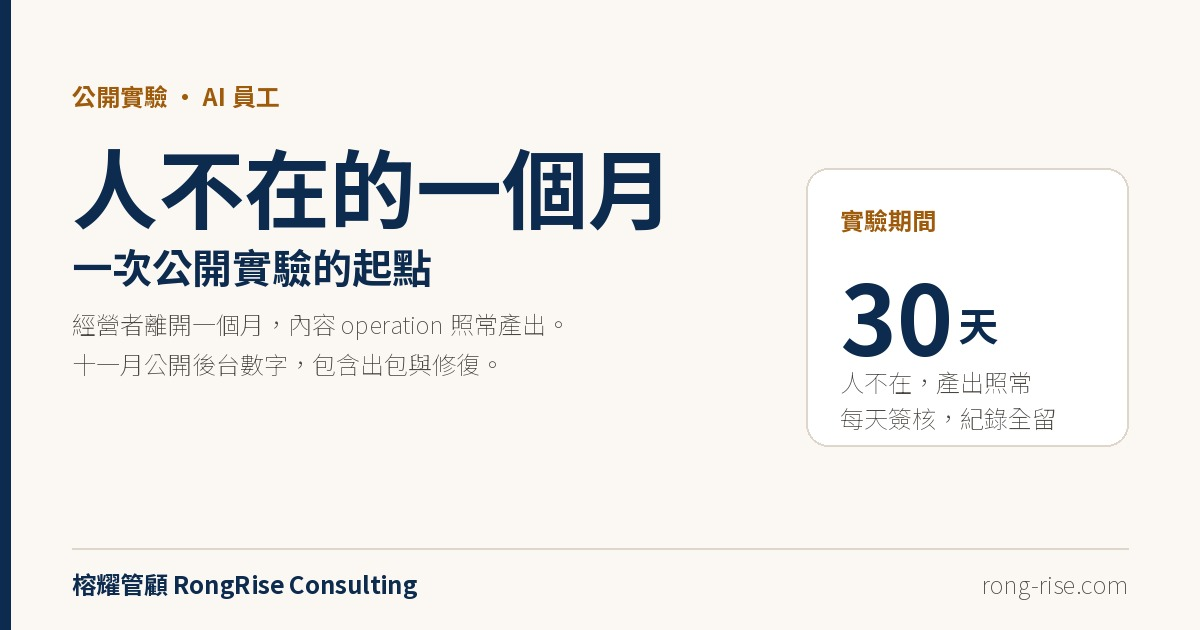
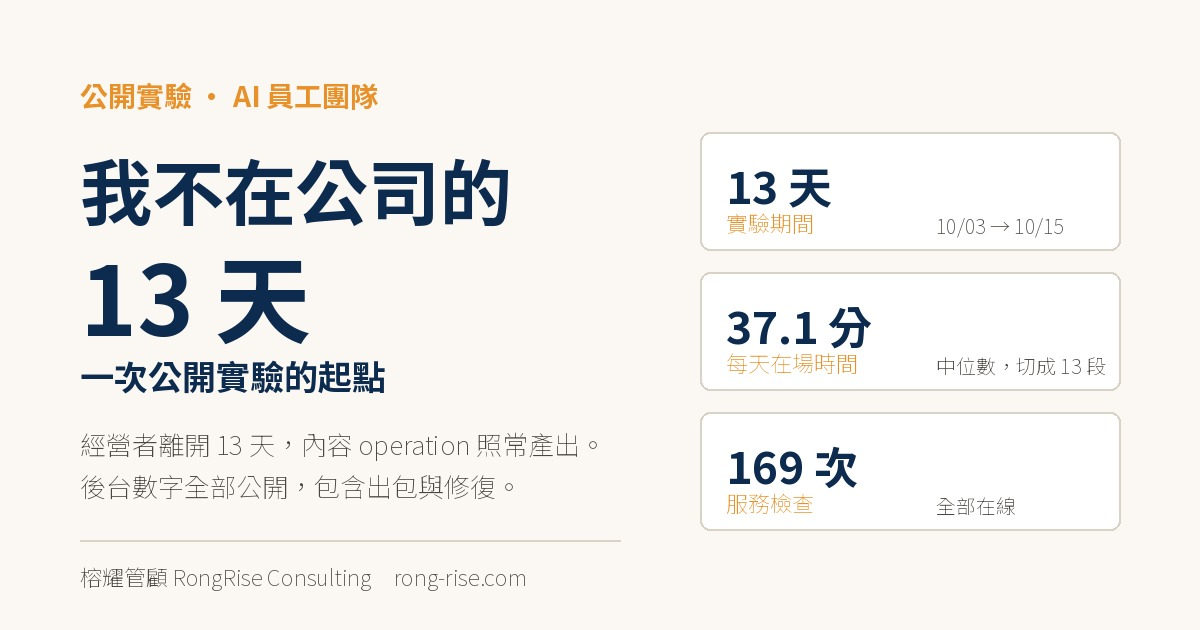
系列正名：人不在的一個月 → 我不在公司的 13 天（後台紀錄 1/2、系列總覽頁、封面與互連）

diff --git a/src/app/(zh)/knowledge/human-absent-13-days/page.tsx b/src/app/(zh)/knowledge/human-absent-13-days/page.tsx
@@ -1,0 +1,213 @@
+import Link from "next/link";
+import type { Metadata } from "next";
+
+const SITE_URL = "https://rong-rise.com";
+const NAVY = "#0D2B4E";
+const GOLD = "#E8912A";
+const TEAL = "#2EC4B6";
+
+export const metadata: Metadata = {
+  title: "我不在公司的 13 天：一次公開實驗的系列總覽 | 榕耀管顧",
+  description:
+    "13 天、169 次服務檢查、7 件錯。經營者離開公司，內容 operation 交給 AI 員工團隊，只保留每天約 37 分鐘的簽核。三篇紀錄與一支影片，數字全部公開，包含出包與修復。",
+  alternates: {
+    canonical: `${SITE_URL}/knowledge/human-absent-13-days`,
+  },
+  openGraph: {
+    title: "我不在公司的 13 天：一次公開實驗的系列總覽 | 榕耀管顧",
+    description:
+      "13 天、169 次服務檢查、7 件錯。數字全部公開，包含出包與修復。",
+    images: [
+      {
+        url: `${SITE_URL}/images/article-ai-operation-experiment.jpg`,
+        width: 1200,
+        height: 630,
+        alt: "我不在公司的 13 天：一次公開實驗",
+      },
+    ],
+  },
+};
+
+const POSTS = [
+  {
+    n: "開場",
+    title: "我不在公司的 13 天：一次公開實驗的起點",
+    href: "/knowledge/ai-operation-experiment",
+    date: "2026-10-08",
+    readTime: "6 分鐘",
+    desc: "實驗條件、邊界，以及要公開哪些數字。當時先講清楚：哪些交給 AI、哪些我保留簽核、出包會不會寫出來。",
+  },
+  {
+    n: "後台紀錄 1",
+    title: "一天 37 分鐘的管理窗口，出了 7 件錯",
+    href: "/knowledge/camino-operation-backstage",
+    date: "2026-10-25",
+    readTime: "8 分鐘",
+    desc: "169 次服務檢查全部在線，內容與流程卻出了 7 件錯，其中 6 件不是機器壞掉，是檢查設在錯的位置。附每日在場時間與錯誤分類。",
+  },
+  {
+    n: "後台紀錄 2",
+    title: "管理制度，也可以先做一輪 POC 嗎？",
+    href: "/knowledge/camino-operation-poc",
+    date: "2026-10-27",
+    readTime: "7 分鐘",
+    desc: "同樣 37 分鐘，被切成十幾段。比起總時間，一天被叫回來幾次更接近真正的管理問題。下一輪試行三層授權。",
+  },
+];
+
+const NUMBERS = [
+  { n: "13 天", t: "實驗期間", s: "10/03 → 10/15" },
+  { n: "37.1 分鐘", t: "每天在場時間", s: "中位數，切成 13 段" },
+  { n: "169 次", t: "服務檢查", s: "全部在線" },
+  { n: "7 件", t: "內容與流程出錯", s: "6 件是檢查位置設錯" },
+];
+
+export default function HumanAbsentThirteenDaysPage() {
+  return (
+    <>
+      <script
+        id="jsonld-series-human-absent-13-days"
+        type="application/ld+json"
+        dangerouslySetInnerHTML={{
+          __html: JSON.stringify({
+            "@context": "https://schema.org",
+            "@type": "CollectionPage",
+            "@id": `${SITE_URL}/knowledge/human-absent-13-days`,
+            name: "我不在公司的 13 天",
+            description:
+              "經營者離開公司 13 天，內容 operation 交給 AI 員工團隊，只保留每天約 37 分鐘的簽核。數字全部公開。",
+            hasPart: POSTS.map((p) => ({
+              "@type": "Article",
+              headline: p.title,
+              url: `${SITE_URL}${p.href}`,
+              datePublished: p.date,
+            })),
+          }),
+        }}
+      ></script>
+      <script
+        id="breadcrumb-human-absent-13-days"
+        type="application/ld+json"
+        dangerouslySetInnerHTML={{
+          __html: JSON.stringify({
+            "@context": "https://schema.org",
+            "@type": "BreadcrumbList",
+            itemListElement: [
+              { "@type": "ListItem", position: 1, name: "首頁", item: SITE_URL },
+              { "@type": "ListItem", position: 2, name: "知識庫", item: `${SITE_URL}/knowledge` },
+              {
+                "@type": "ListItem",
+                position: 3,
+                name: "我不在公司的 13 天",
+                item: `${SITE_URL}/knowledge/human-absent-13-days`,
+              },
+            ],
+          }),
+        }}
+      ></script>
+
+      <section className="bg-gradient-hero text-white">
+        <div className="max-w-[860px] mx-auto px-4 sm:px-6 py-16 md:py-20">
+          <span className="tag bg-white/15 text-white mb-4">公開實驗・系列總覽</span>
+          <h1 className="heading-hero mt-4 mb-4">我不在公司的 13 天</h1>
+          <p className="text-body-lg text-white/85 mb-3">
+            十月，我去走朝聖之路。公司沒有其他真人員工，內容 operation 交給一支 AI 員工團隊，我只保留每天約 37 分鐘的簽核。
+          </p>
+          <p className="text-body-lg text-white/85 mb-2">
+            這不是「AI 可以取代人」的展示，是一次有邊界、有紀錄、有出包的公開實驗。三篇寫完，數字全部留在這裡。
+          </p>
+          <p className="text-sm text-white/60">2026-10-08 起連載　共 3 篇＋1 支影片</p>
+        </div>
+      </section>
+
+      <section className="section bg-white">
+        <div className="max-w-[860px] mx-auto px-4 sm:px-6">
+          <div className="grid grid-cols-2 gap-3 sm:grid-cols-4">
+            {NUMBERS.map((x) => (
+              <div key={x.t} className="rounded-2xl border border-border-light bg-[#FBF8F3] p-4">
+                <p className="text-xl font-bold" style={{ color: NAVY }}>
+                  {x.n}
+                </p>
+                <p className="mt-1 text-xs font-bold" style={{ color: GOLD }}>
+                  {x.t}
+                </p>
+                <p className="mt-1 text-xs text-text-secondary">{x.s}</p>
+              </div>
+            ))}
+          </div>
+
+          <div className="mt-14">
+            <p className="text-sm font-bold tracking-widest mb-2" style={{ color: GOLD }}>
+              系列文章
+            </p>
+            <h2 className="text-2xl md:text-3xl font-bold text-text-primary mb-6">從條件、結果，到下一輪怎麼改</h2>
+
+            <div className="space-y-4">
+              {POSTS.map((p) => (
+                <Link
+                  key={p.href}
+                  href={p.href}
+                  className="block rounded-2xl border border-border-light bg-white p-6 transition hover:border-[#0D2B4E]/40 hover:shadow-sm"
+                >
+                  <div className="flex flex-wrap items-center gap-3 text-xs mb-2">
+                    <span className="rounded-full px-2.5 py-1 font-bold text-white" style={{ backgroundColor: NAVY }}>
+                      {p.n}
+                    </span>
+                    <span className="text-text-secondary">
+                      {p.date}　閱讀約 {p.readTime}
+                    </span>
+                  </div>
+                  <h3 className="text-lg md:text-xl font-bold text-text-primary mb-2">{p.title}</h3>
+                  <p className="text-sm leading-relaxed text-text-secondary">{p.desc}</p>
+                </Link>
+              ))}
+            </div>
+          </div>
+
+          <figure className="my-14">
+            <div className="mx-auto w-full max-w-[380px] overflow-hidden rounded-2xl border border-border-light bg-black/5">
+              <video controls playsInline preload="metadata" poster="/images/backstage-ep02-poster.jpg" className="h-auto w-full">
+                <source src="/videos/backstage-ep02-short.mp4" type="video/mp4" />
+                你的瀏覽器不支援影片播放。
+              </video>
+            </div>
+            <figcaption className="mt-3 text-center text-sm text-text-secondary">
+              52 秒看完後台紀錄 1：7 件錯、37.1 分鐘、56.3 小時的等待
+            </figcaption>
+          </figure>
+
+          <div className="my-12 rounded-2xl border border-border-light bg-[#FBF8F3] p-6 md:p-8">
+            <h2 className="text-xl font-bold mb-4" style={{ color: NAVY }}>
+              這個系列在測什麼
+            </h2>
+            <ul className="space-y-3 text-text-secondary leading-relaxed">
+              <li>
+                <strong className="text-text-primary">測的不是 AI 有多萬能</strong>，是管理者每天只有 30 分鐘、只有手機時，一家公司的內容 operation 會變成什麼樣子。
+              </li>
+              <li>
+                <strong className="text-text-primary">30 分鐘是期望，不是限制</strong>。實際中位數 37.1 分鐘，是目標的 1.24 倍，這一段寫在後台紀錄 1。
+              </li>
+              <li>
+                <strong className="text-text-primary">沒有對照組</strong>。這是一個人的公司做的一次實驗，不能宣稱因果，只能說這 13 天發生了什麼。
+              </li>
+              <li>
+                <strong className="text-text-primary">出包照寫</strong>。7 件錯全部列出，包含哪 6 件是我們自己設計錯了檢查位置。
+              </li>
+            </ul>
+          </div>
+
+          <div className="mt-10 mb-4 text-center">
+            <p className="text-text-secondary mb-4">如果你也在想「離開兩週，公司還能不能跑」，這三篇是我們的答案與代價。</p>
+            <Link
+              href="/contact"
+              className="inline-block rounded-full px-7 py-3 font-bold text-white"
+              style={{ backgroundColor: GOLD }}
+            >
+              聊聊你的情況
+            </Link>
+          </div>
+        </div>
+      </section>
+    </>
+  );
+}

diff --git a/src/app/(zh)/knowledge/camino-operation-backstage/page.tsx b/src/app/(zh)/knowledge/camino-operation-backstage/page.tsx
@@ -2,14 +2,14 @@ import Link from "next/link";
 import type { Metadata } from "next";
 
 export const metadata: Metadata = {
-  title: "後台紀錄 ②：一天 37 分鐘的管理窗口，出了 7 件錯 | 榕耀管顧",
+  title: "後台紀錄 1：一天 37 分鐘的管理窗口，出了 7 件錯 | 榕耀管顧",
   description:
-    "公開實驗後台紀錄第二篇：13 天、169 次服務檢查全部在線，內容與流程卻出了 7 件錯，其中 6 件是檢查設在錯的位置。附每日在場時間、簽核等待與錯誤分類圖表。",
+    "我不在公司的 13 天後台紀錄第一篇：13 天、169 次服務檢查全部在線，內容與流程卻出了 7 件錯，其中 6 件是檢查設在錯的位置。附每日在場時間、簽核等待與錯誤分類圖表。",
   alternates: {
     canonical: "https://rong-rise.com/knowledge/camino-operation-backstage",
   },
   openGraph: {
-    title: "後台紀錄 ②：一天 37 分鐘的管理窗口，出了 7 件錯 | 榕耀管顧",
+    title: "後台紀錄 1：一天 37 分鐘的管理窗口，出了 7 件錯 | 榕耀管顧",
     description:
       "13 天、169 次服務檢查全部在線，內容與流程卻出了 7 件錯。機器撐住了，判斷沒有。",
     images: [
@@ -17,7 +17,7 @@ export const metadata: Metadata = {
         url: "https://rong-rise.com/images/article-camino-operation-backstage.jpg",
         width: 1200,
         height: 630,
-        alt: "後台紀錄 ②：一天 37 分鐘的管理窗口，出了 7 件錯",
+        alt: "後台紀錄 1：一天 37 分鐘的管理窗口，出了 7 件錯",
       },
     ],
   },
@@ -273,7 +273,7 @@ function KpiGrid() {
 
 export default function Post() {
   const SITE_URL = "https://rong-rise.com";
-  const pageTitle = "後台紀錄 ②：一天 37 分鐘的管理窗口，出了 7 件錯";
+  const pageTitle = "後台紀錄 1：一天 37 分鐘的管理窗口，出了 7 件錯";
 
   return (
     <>
@@ -320,7 +320,7 @@ export default function Post() {
       ></script>
       <section className="bg-gradient-hero text-white">
         <div className="max-w-[860px] mx-auto px-4 sm:px-6 py-16 md:py-20">
-          <span className="tag bg-white/15 text-white mb-4">公開實驗・後台紀錄 ②</span>
+          <Link href="/knowledge/human-absent-13-days" className="tag bg-white/15 text-white mb-4">← 我不在公司的 13 天・系列總覽</Link>
           <h1 className="heading-hero mt-4 mb-4">一天 37 分鐘的管理窗口，出了 7 件錯</h1>
           <p className="text-body-lg text-white/85 mb-2">
             機器撐住了，判斷沒有。13 天、169 次服務檢查全部在線，內容與流程卻出了 7 件錯。
@@ -332,7 +332,7 @@ export default function Post() {
       <section className="section bg-white">
         <div className="max-w-[860px] mx-auto px-4 sm:px-6">
           <p className="text-text-secondary leading-[1.9] text-lg mb-6">
-            10 月 8 日我們發過〈人不在的一個月〉，條件是：我不在辦公室，沒有其他真人員工，內容交給 AI 團隊，我只保留簽核。這篇先講結果。
+            10 月 8 日我們發過〈我不在公司的 13 天〉，條件是：我不在辦公室，沒有其他真人員工，內容交給 AI 團隊，我只保留簽核。這篇先講結果。
           </p>
           <p className="text-text-secondary leading-[1.9] mb-6">
             這個實驗測的不是 AI 有多萬能，是管理者每天只有 30 分鐘、只有手機，其餘交給 AI 員工，後台會怎樣。30 分鐘，夠不夠管住一家公司。
@@ -465,7 +465,7 @@ export default function Post() {
           <div className="my-14 rounded-2xl bg-[#FBF8F3] p-6 md:p-8">
             <p className="text-sm font-bold tracking-widest text-tertiary mb-2">公開實驗</p>
             <p className="text-text-secondary leading-[1.9] mb-4">
-              這是「人不在的一個月」公開實驗的第二篇。第一篇寫條件，這一篇寫結果，下週寫我們要怎麼改。
+              這是〈我不在公司的 13 天〉的後台紀錄第 1 篇，系列第 2 篇。開場寫條件，這一篇寫結果，下一篇寫我們要怎麼改。
             </p>
             <Link href="/knowledge" className="btn-secondary inline-block">
               回到知識庫

diff --git a/src/app/(zh)/knowledge/camino-operation-poc/page.tsx b/src/app/(zh)/knowledge/camino-operation-poc/page.tsx
@@ -2,14 +2,14 @@ import Link from "next/link";
 import type { Metadata } from "next";
 
 export const metadata: Metadata = {
-  title: "後台紀錄 ③：管理制度，也可以先做一輪 POC | 榕耀管顧",
+  title: "後台紀錄 2：管理制度，也可以先做一輪 POC | 榕耀管顧",
   description:
-    "公開實驗第三篇：13 天裡每天介入約 37 分鐘，卻被切成十幾段。比起總時間，一天被叫回來幾次，更接近真正的管理問題。下一輪試行三層授權。",
+    "後台紀錄第 2 篇：13 天裡每天介入約 37 分鐘，卻被切成十幾段。比起總時間，一天被叫回來幾次，更接近真正的管理問題。下一輪試行三層授權。",
   alternates: {
     canonical: "https://rong-rise.com/knowledge/camino-operation-poc",
   },
   openGraph: {
-    title: "後台紀錄 ③：管理制度，也可以先做一輪 POC | 榕耀管顧",
+    title: "後台紀錄 2：管理制度，也可以先做一輪 POC | 榕耀管顧",
     description:
       "工作完成了，流程還在等我。當 AI 團隊擴大，真正的瓶頸是被叫回系統的次數。",
     images: [
@@ -17,7 +17,7 @@ export const metadata: Metadata = {
         url: "https://rong-rise.com/images/article-camino-operation-poc.jpg",
         width: 1200,
         height: 630,
-        alt: "後台紀錄 ③：管理制度，也可以先做一輪 POC",
+        alt: "後台紀錄 2：管理制度，也可以先做一輪 POC",
       },
     ],
   },
@@ -433,7 +433,7 @@ function CheckList() {
 
 export default function Post() {
   const SITE_URL = "https://rong-rise.com";
-  const pageTitle = "後台紀錄 ③：管理制度，也可以先做一輪 POC 嗎？";
+  const pageTitle = "後台紀錄 2：管理制度，也可以先做一輪 POC 嗎？";
   const pageDesc =
     "13 天裡每天介入約 37 分鐘，卻被切成十幾段。比起總時間，一天被叫回來幾次，更接近真正的管理問題。";
 
@@ -498,7 +498,7 @@ export default function Post() {
       ></script>
       <section className="bg-gradient-hero text-white">
         <div className="max-w-[860px] mx-auto px-4 sm:px-6 py-16 md:py-20">
-          <span className="tag bg-white/15 text-white mb-4">公開實驗・後台紀錄 ③</span>
+          <Link href="/knowledge/human-absent-13-days" className="tag bg-white/15 text-white mb-4">← 我不在公司的 13 天・系列總覽</Link>
           <h1 className="heading-hero mt-4 mb-4">管理制度，也可以像 Vibe Coding 一樣，先做一輪 POC 嗎？</h1>
           <p className="text-body-lg text-white/85 mb-2">
             工作完成了，流程還在等我。真正的瓶頸，是一天被叫回系統幾次。
@@ -579,11 +579,11 @@ export default function Post() {
           <div className="my-14 rounded-2xl border border-border-light p-6 md:p-8">
             <p className="text-sm font-bold tracking-widest text-tertiary mb-2">公開實驗</p>
             <p className="text-text-secondary leading-[1.9] mb-4">
-              這是「人不在的一個月」公開實驗的第三篇。第一篇寫條件，第二篇寫 13 天的結果，這一篇寫下一輪要怎麼改。數字來自實驗期紀錄，沒有對照組，不能宣稱因果。
+              這是〈我不在公司的 13 天〉的後台紀錄第 2 篇。第一篇寫條件，第二篇寫 13 天的結果，這一篇寫下一輪要怎麼改。數字來自實驗期紀錄，沒有對照組，不能宣稱因果。
             </p>
             <div className="flex flex-wrap gap-3">
               <Link href="/knowledge/camino-operation-backstage" className="btn-secondary inline-block">
-                讀第二篇：後台紀錄 ②
+                讀上一篇：後台紀錄 1
               </Link>
               <Link href="/knowledge" className="btn-secondary inline-block">
                 回到知識庫

diff --git a/src/app/(zh)/knowledge/page.tsx b/src/app/(zh)/knowledge/page.tsx
@@ -34,7 +34,7 @@ const articles: Article[] = [
   {
     slug: "camino-operation-poc",
     cat: "AI 轉型",
-    title: "後台紀錄 ③：管理制度，也可以先做一輪 POC 嗎？",
+    title: "後台紀錄 2：管理制度，也可以先做一輪 POC 嗎？",
     date: "2026-10-27",
     readTime: "6 分鐘",
     excerpt: "13 天裡每天介入約 37 分鐘，卻被切成十幾段。比起總時間，一天被叫回來幾次，更接近真正的管理問題。下一輪試行三層授權。",
@@ -43,7 +43,7 @@ const articles: Article[] = [
   {
     slug: "camino-operation-backstage",
     cat: "AI 轉型",
-    title: "後台紀錄 ②：一天 37 分鐘的管理窗口，出了 7 件錯",
+    title: "後台紀錄 1：一天 37 分鐘的管理窗口，出了 7 件錯",
     date: "2026-10-25",
     readTime: "8 分鐘",
     excerpt: "13 天、169 次服務檢查全部在線，內容與流程卻出了 7 件錯，其中 6 件是檢查設在錯的位置。附每日在場時間、簽核等待與事故分類圖表。",
@@ -97,7 +97,7 @@ const articles: Article[] = [
   {
     slug: "ai-operation-experiment",
     cat: "AI 轉型",
-    title: "人不在的一個月：一次公開實驗的起點",
+    title: "我不在公司的 13 天：一次公開實驗的起點",
     date: "2026.10.08",
     readTime: "4 分鐘",
     excerpt: "十月，CJ 哥在西班牙走朝聖之路，公司的內容 operation 由一支 AI 員工團隊維運。這是一份公開實驗的起點說明：它負責什麼、邊界在哪、十一月要公開哪些數字，包含出包與修復。",

diff --git a/src/app/sitemap.ts b/src/app/sitemap.ts
@@ -206,6 +206,7 @@ export default function sitemap(): MetadataRoute.Sitemap {
       { slug: "xiaoha-weekly-vol3", date: "2026-10-15" },
       { slug: "camino-operation-backstage", date: "2026-10-25" },
       { slug: "camino-operation-poc", date: "2026-10-27" },
+      { slug: "human-absent-13-days", date: "2026-10-27" },
     ] as { slug: string; date: string }[]
   ).map((p) => ({
     url: `${baseUrl}/knowledge/${p.slug}`,
